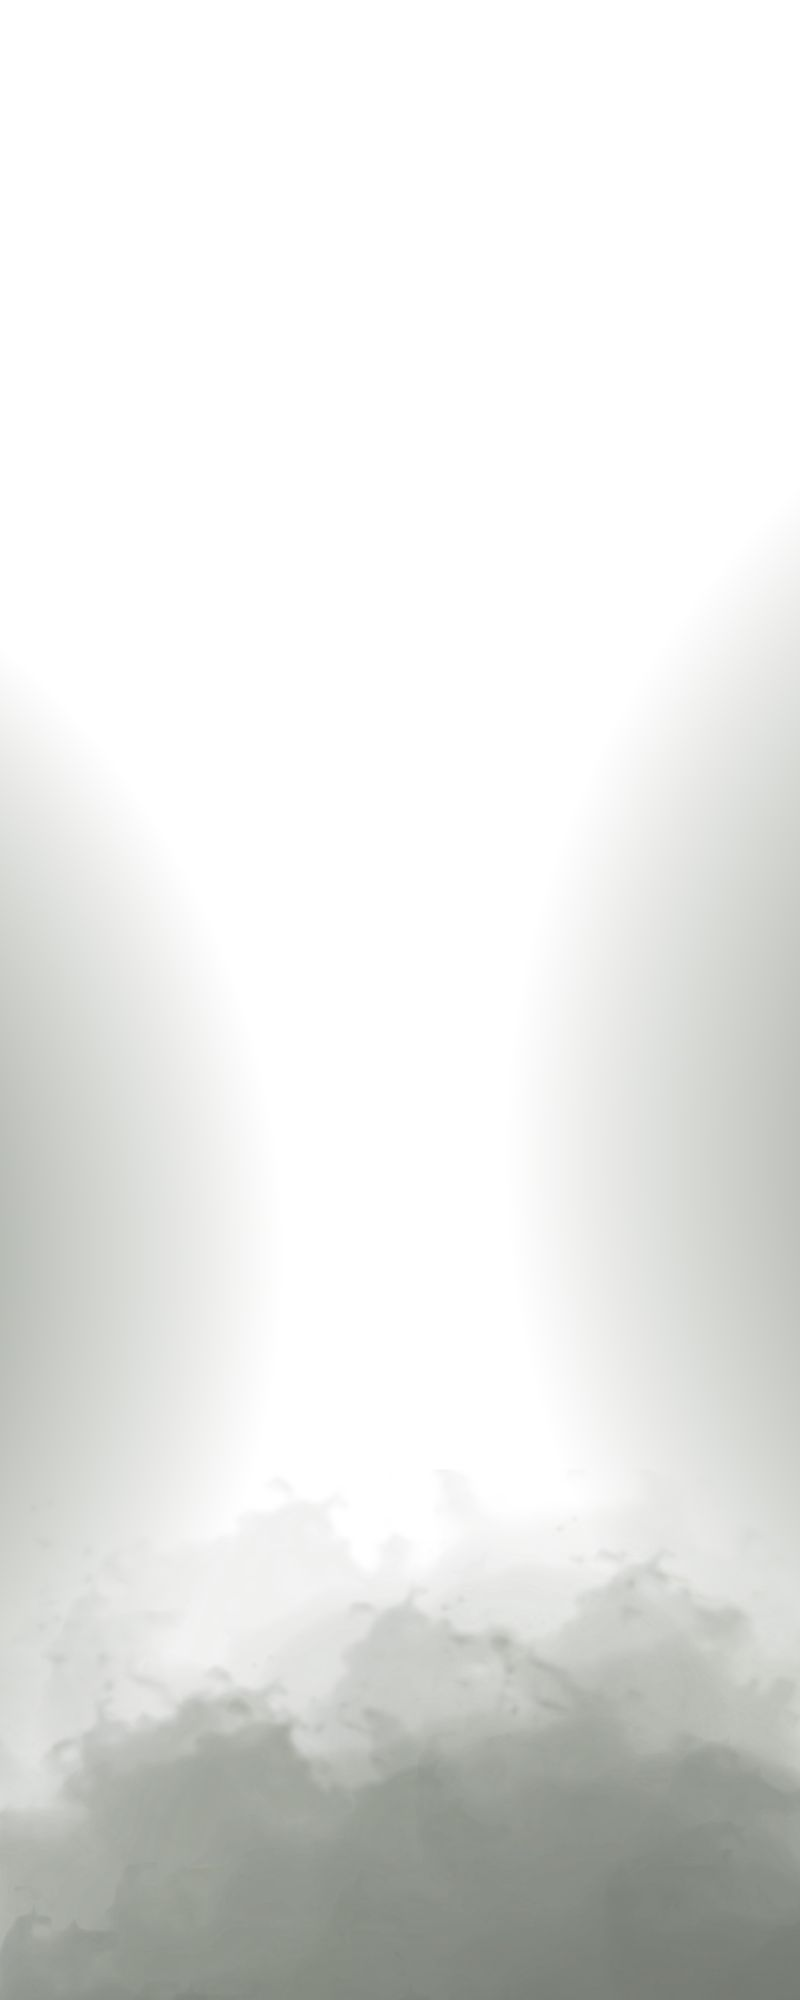
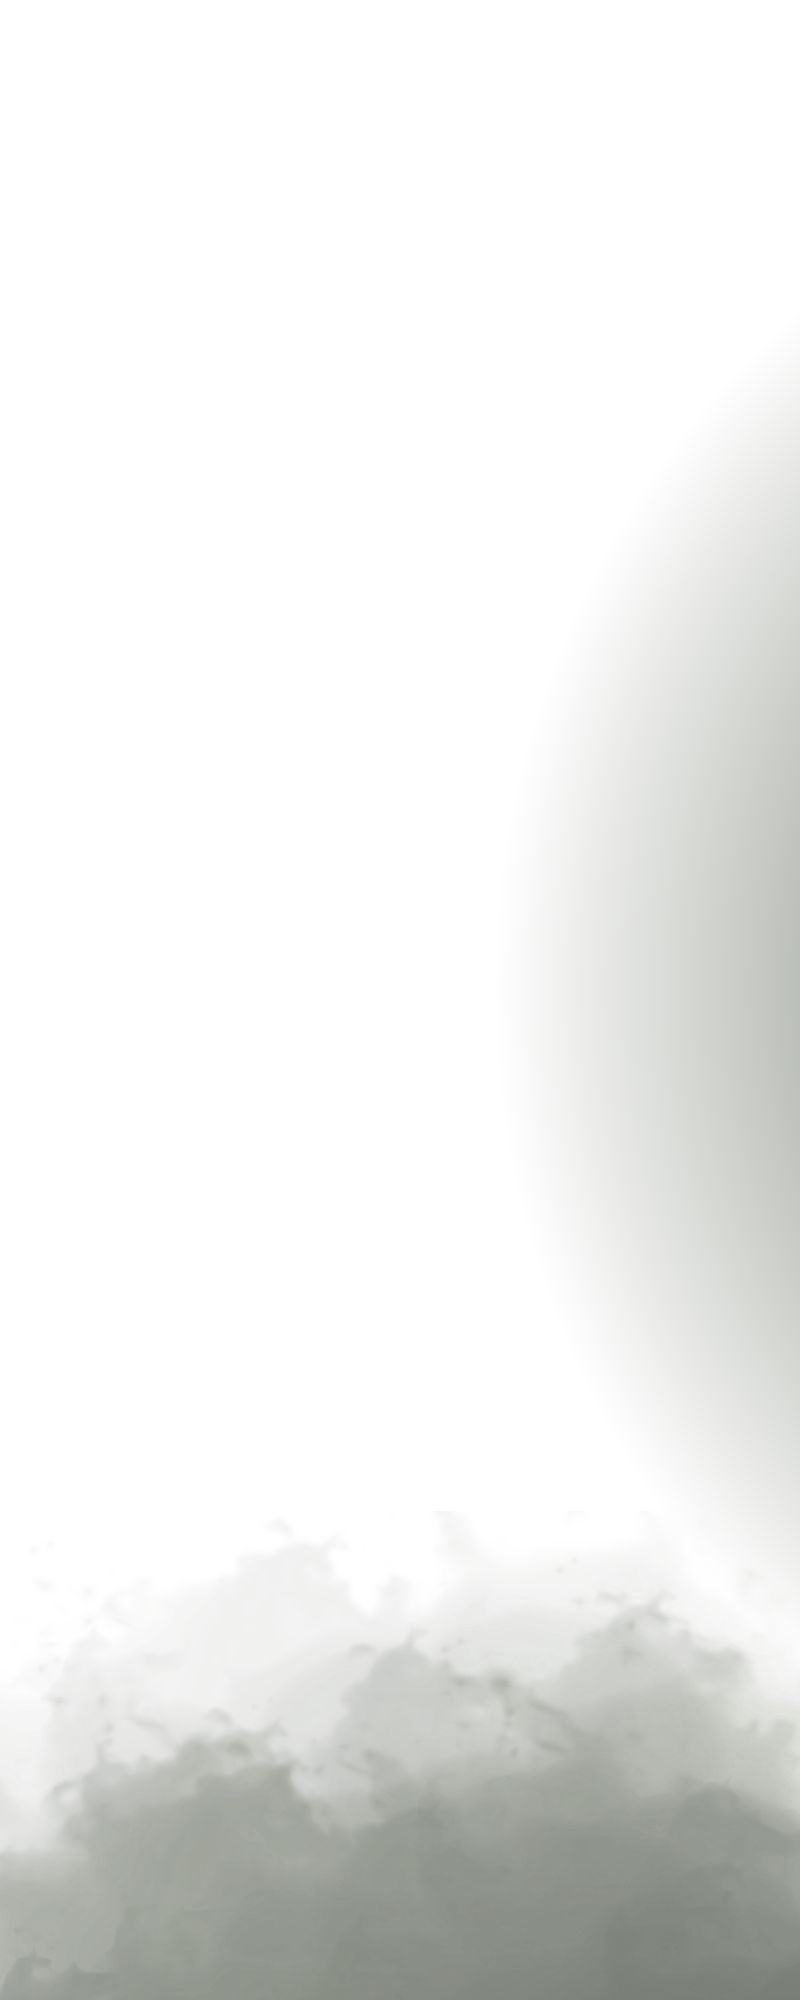
intento de conexion

Changed region(s): [[0.0, 0.372, 1.0, 0.93], [0.875, 0.217, 1.0, 0.341]]

diff --git a/entrenadora-front/src/components/Global/AuthModal.jsx b/entrenadora-front/src/components/Global/AuthModal.jsx
@@ -1,11 +1,21 @@
-import { useState } from 'react';
+import { useState, useEffect } from 'react';
 import { X, Info, MailCheck } from 'lucide-react';
 import { useNavigate } from 'react-router-dom';
 import api from '../../api.js';
 import { GoogleLogin } from '@react-oauth/google';
+import axios from 'axios';
 
 export default function AuthModal({ activeView, onClose, onChangeView }) {
   const navigate = useNavigate();
+
+  const [startY, setStartY] = useState(null);
+
+  useEffect(() => {
+    document.body.style.overflow = 'hidden';
+    return () => {
+      document.body.style.overflow = 'unset';
+    };
+  }, []);
 
   const [credenciales, setCredenciales] = useState({ correo: '', contrasenia: '' });
   const [errorLogin, setErrorLogin] = useState('');
@@ -141,8 +151,21 @@ export default function AuthModal({ activeView, onClose, onChangeView }) {
       >
         <style>{`div::-webkit-scrollbar { display: none; }`}</style>
 
-        <div className="w-10 h-1 bg-[#D9D0C5] rounded-full mx-auto mb-6 md:hidden flex-shrink-0"></div>
+        <div 
+          className="w-full pt-2 pb-6 -mt-2 flex justify-center md:hidden cursor-pointer touch-none"
+          onTouchStart={(e) => setStartY(e.touches[0].clientY)}
+          onTouchEnd={(e) => {
+            if (!startY) return;
+            const endY = e.changedTouches[0].clientY;
+            if (endY - startY > 40) onClose(); 
+            setStartY(null);
+          }}
+          onClick={onClose}
+        >
+          <div className="w-12 h-1.5 bg-[#D9D0C5] rounded-full shadow-sm"></div>
+        </div>
 
+        </div>
         <button 
           onClick={onClose}
           className="absolute top-5 right-5 text-[#5C6653] hover:text-[#384230] p-1 rounded-full hover:bg-white transition-colors hidden md:block"

diff --git a/entrenadora-front/src/styles/global.css b/entrenadora-front/src/styles/global.css
@@ -96,9 +96,8 @@
 @layer base {
     body {
         background: linear-gradient(180deg, #EAE2D6 0%, #FAF7F2 20%, #FAF7F2 100%);
-        background-attachment: fixed; 
         
-        color: #1A1412; /* Marrón oscuro para el cuerpo del texto */
+        color: #1A1412;
         font-family: var(--font-sans);
         -webkit-font-smoothing: antialiased;
     }

diff --git a/entrenadora-front/src/pages/Inicio.jsx b/entrenadora-front/src/pages/Inicio.jsx
@@ -108,6 +108,8 @@ export default function Inicio() {
           backgroundImage: "url('/hero-bg.jpg')",
           backgroundSize: "cover",
           backgroundPosition: "center",
+          transform: "translateZ(0)",
+          willChange: "transform"
         }}
       ></div>
 
